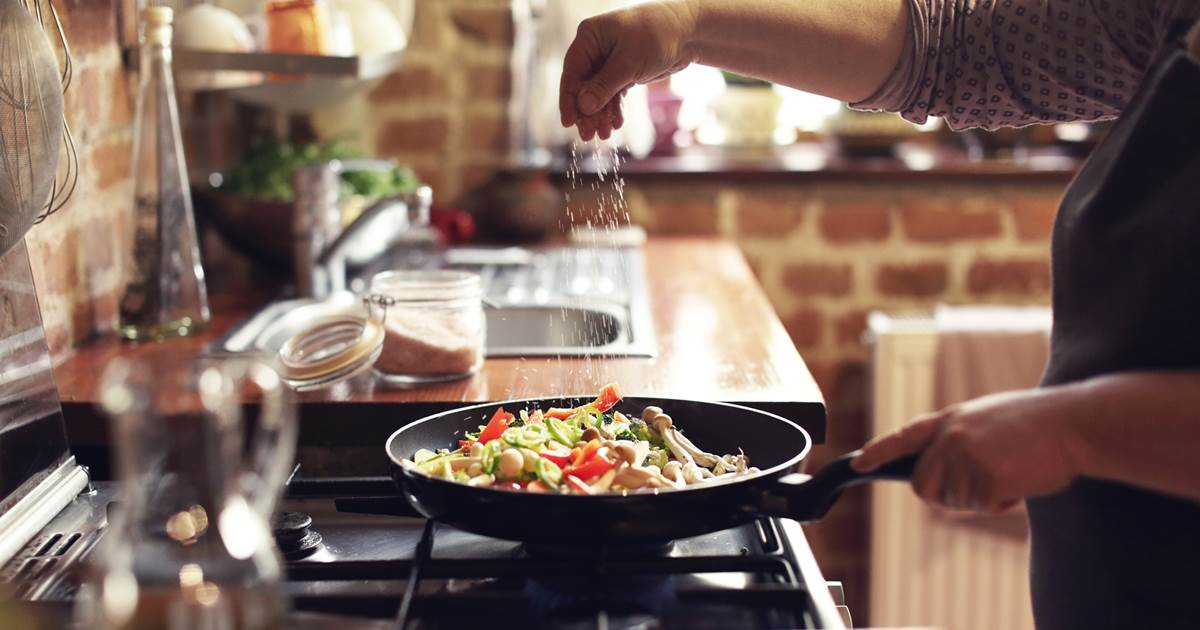
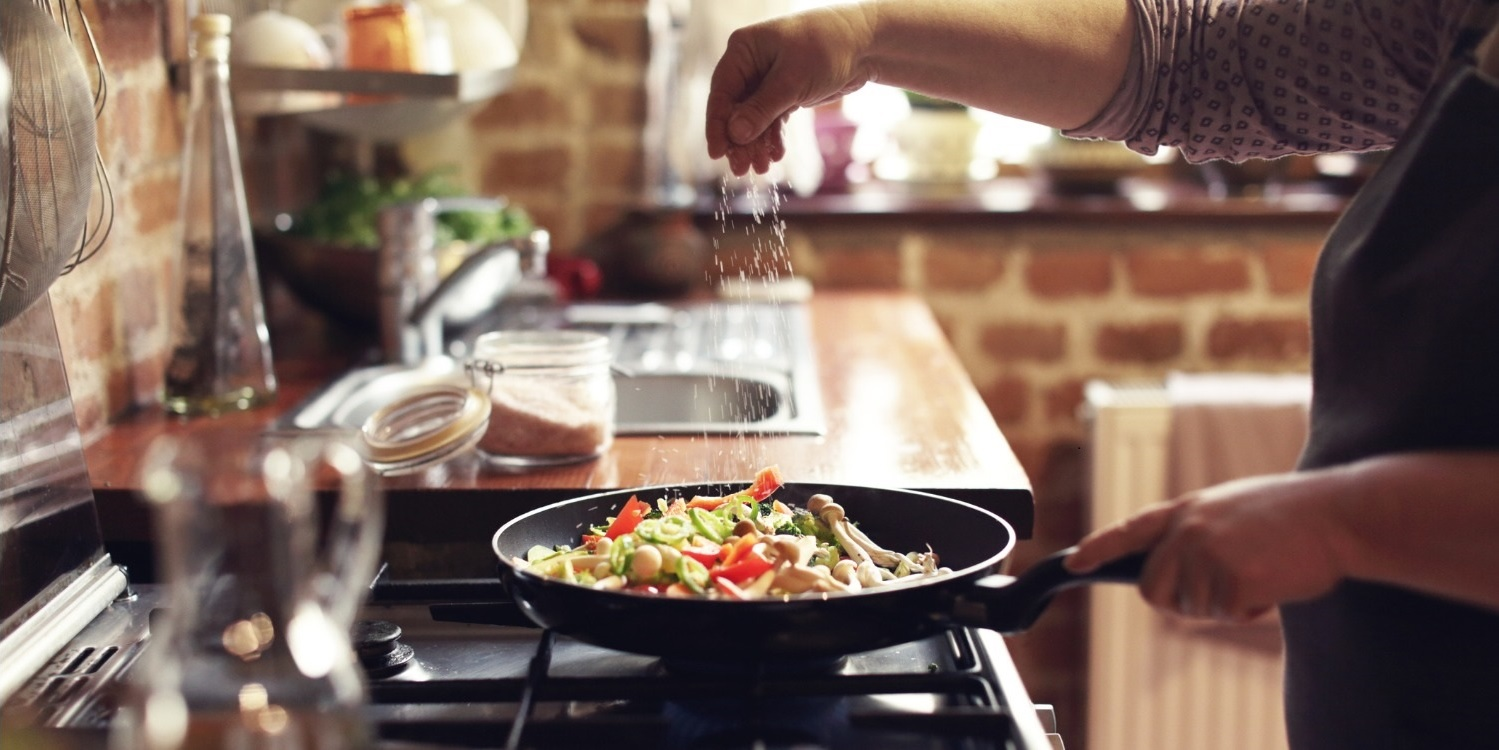
fixed login page bg and signup link

diff --git a/react-app/src/components/auth/LoginForm.js b/react-app/src/components/auth/LoginForm.js
@@ -62,7 +62,7 @@ const LoginForm = () => {
 						<button type="submit" className="loginButton">Log In</button>
 					</div>
                     <div className="loginSignupText">
-                        New to Ingestibles? <a href="/signup">Sign Up >></a>
+                        New to Ingestibles? <a href="/sign-up">Sign Up >></a>
                     </div>
 				</form>
 			</div>

diff --git a/react-app/src/components/auth/auth.css b/react-app/src/components/auth/auth.css
@@ -3,9 +3,12 @@
     position: fixed;
     flex-direction: row;
     background-image: url("cook.jpg");
-    background-size: contain;
-    width: 100vmax;
-    height: 100vmax;
+    /* background-size: contain; */
+    background-size: cover;
+    /* width: 100vmax; */
+    width: 100%;
+    /* height: 100vmax; */
+    height: 100%;
     background-color: white;
     opacity: 0.95;
 }
